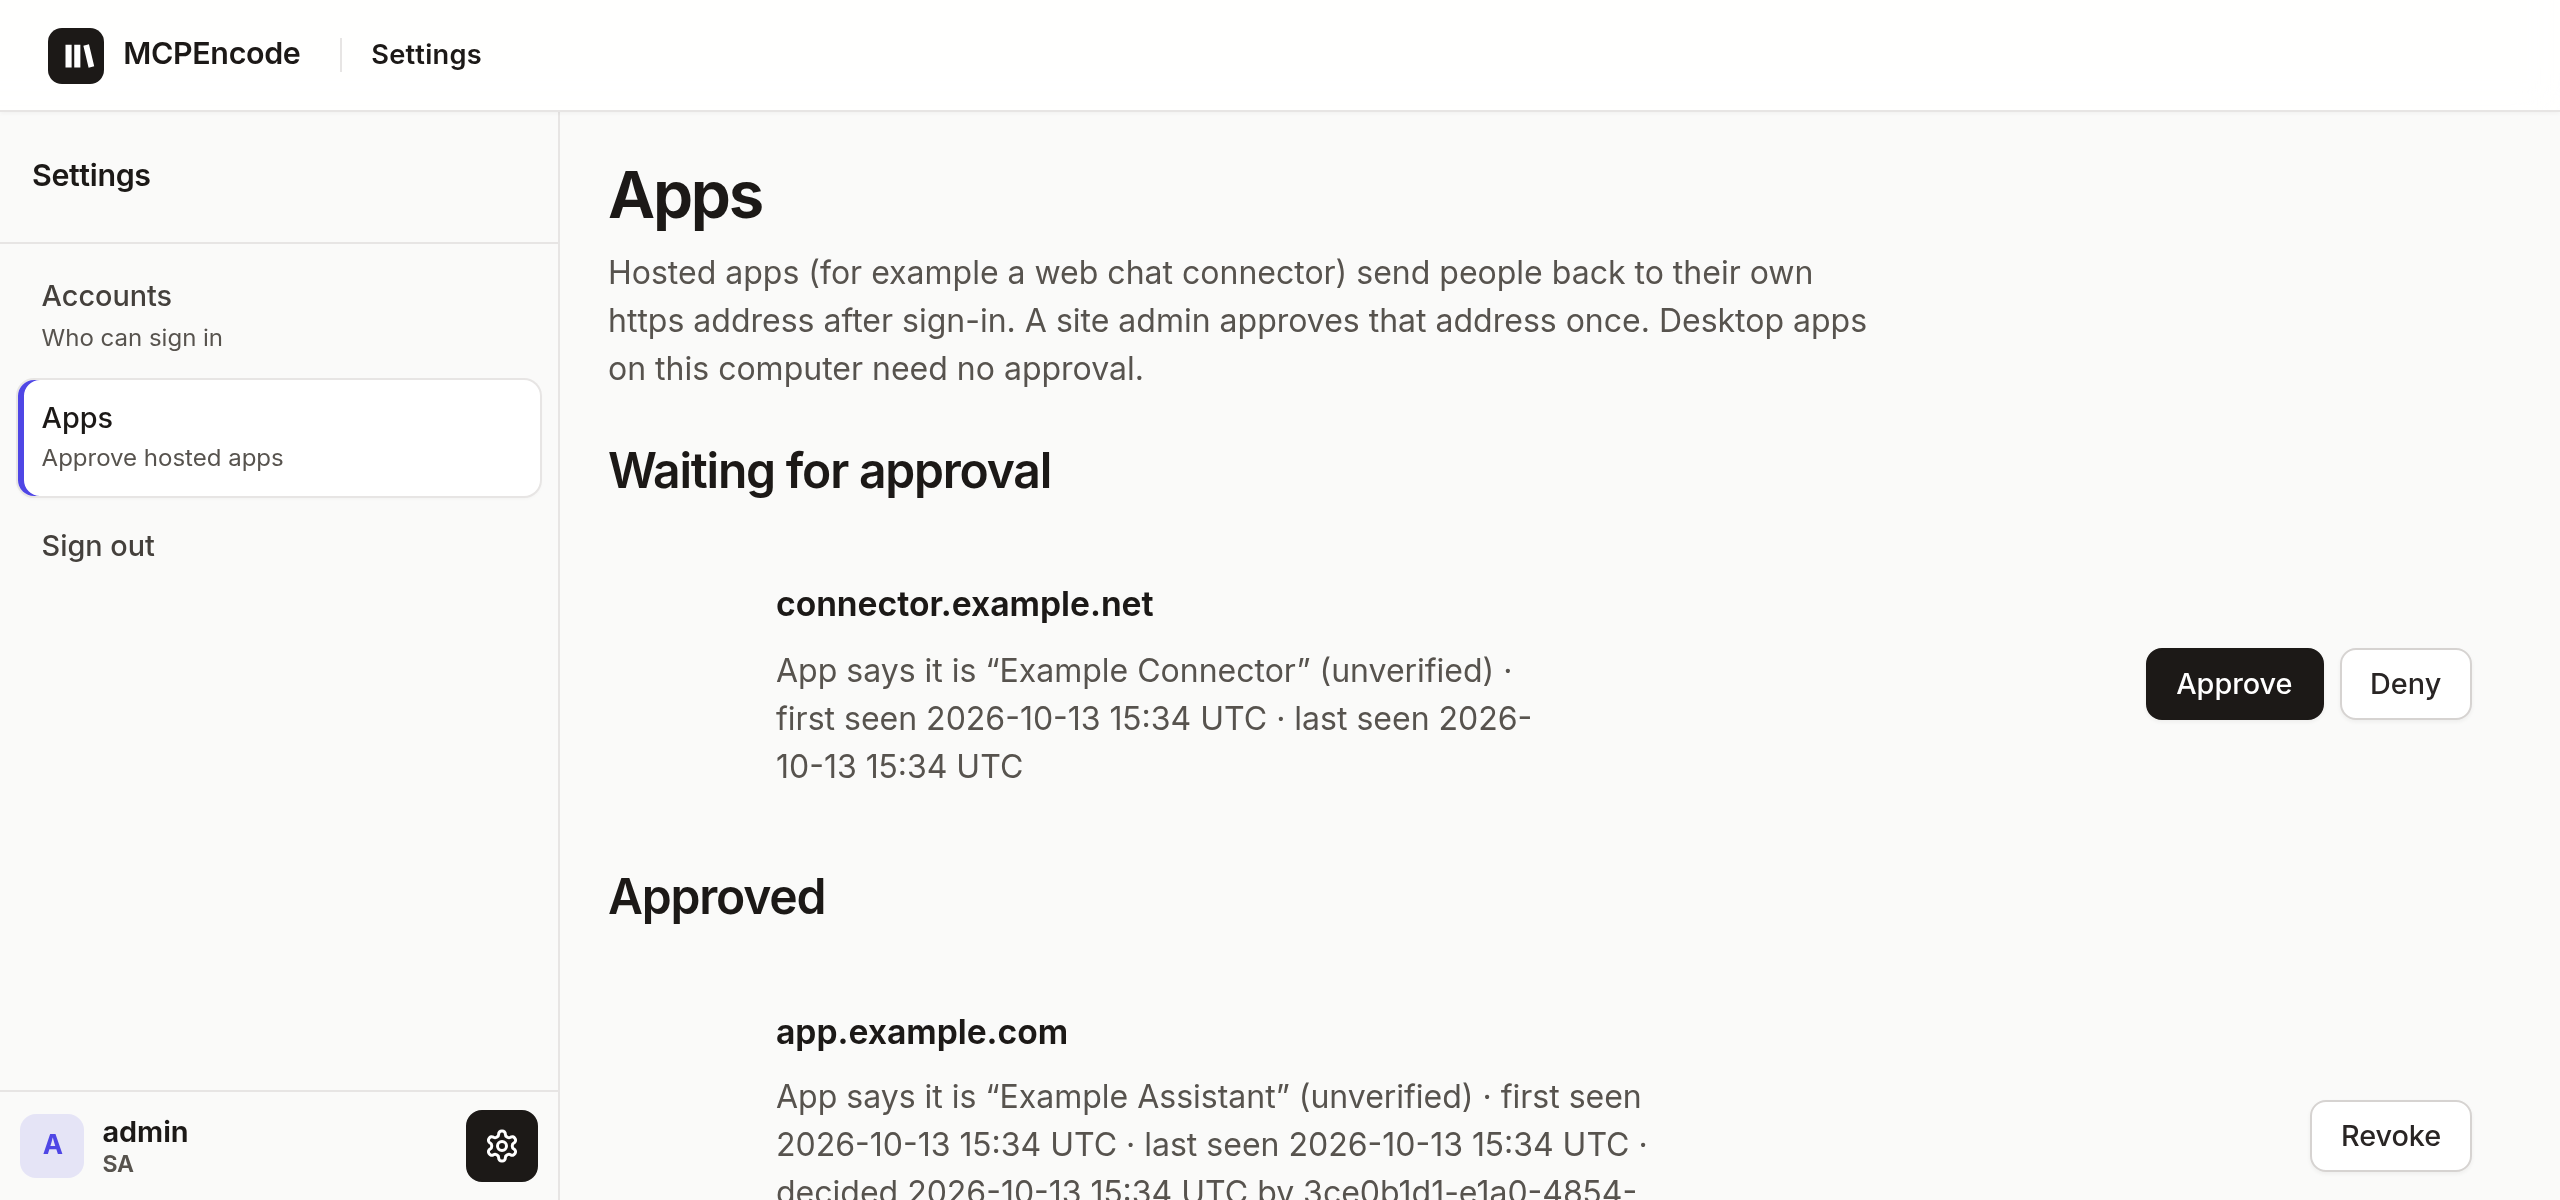
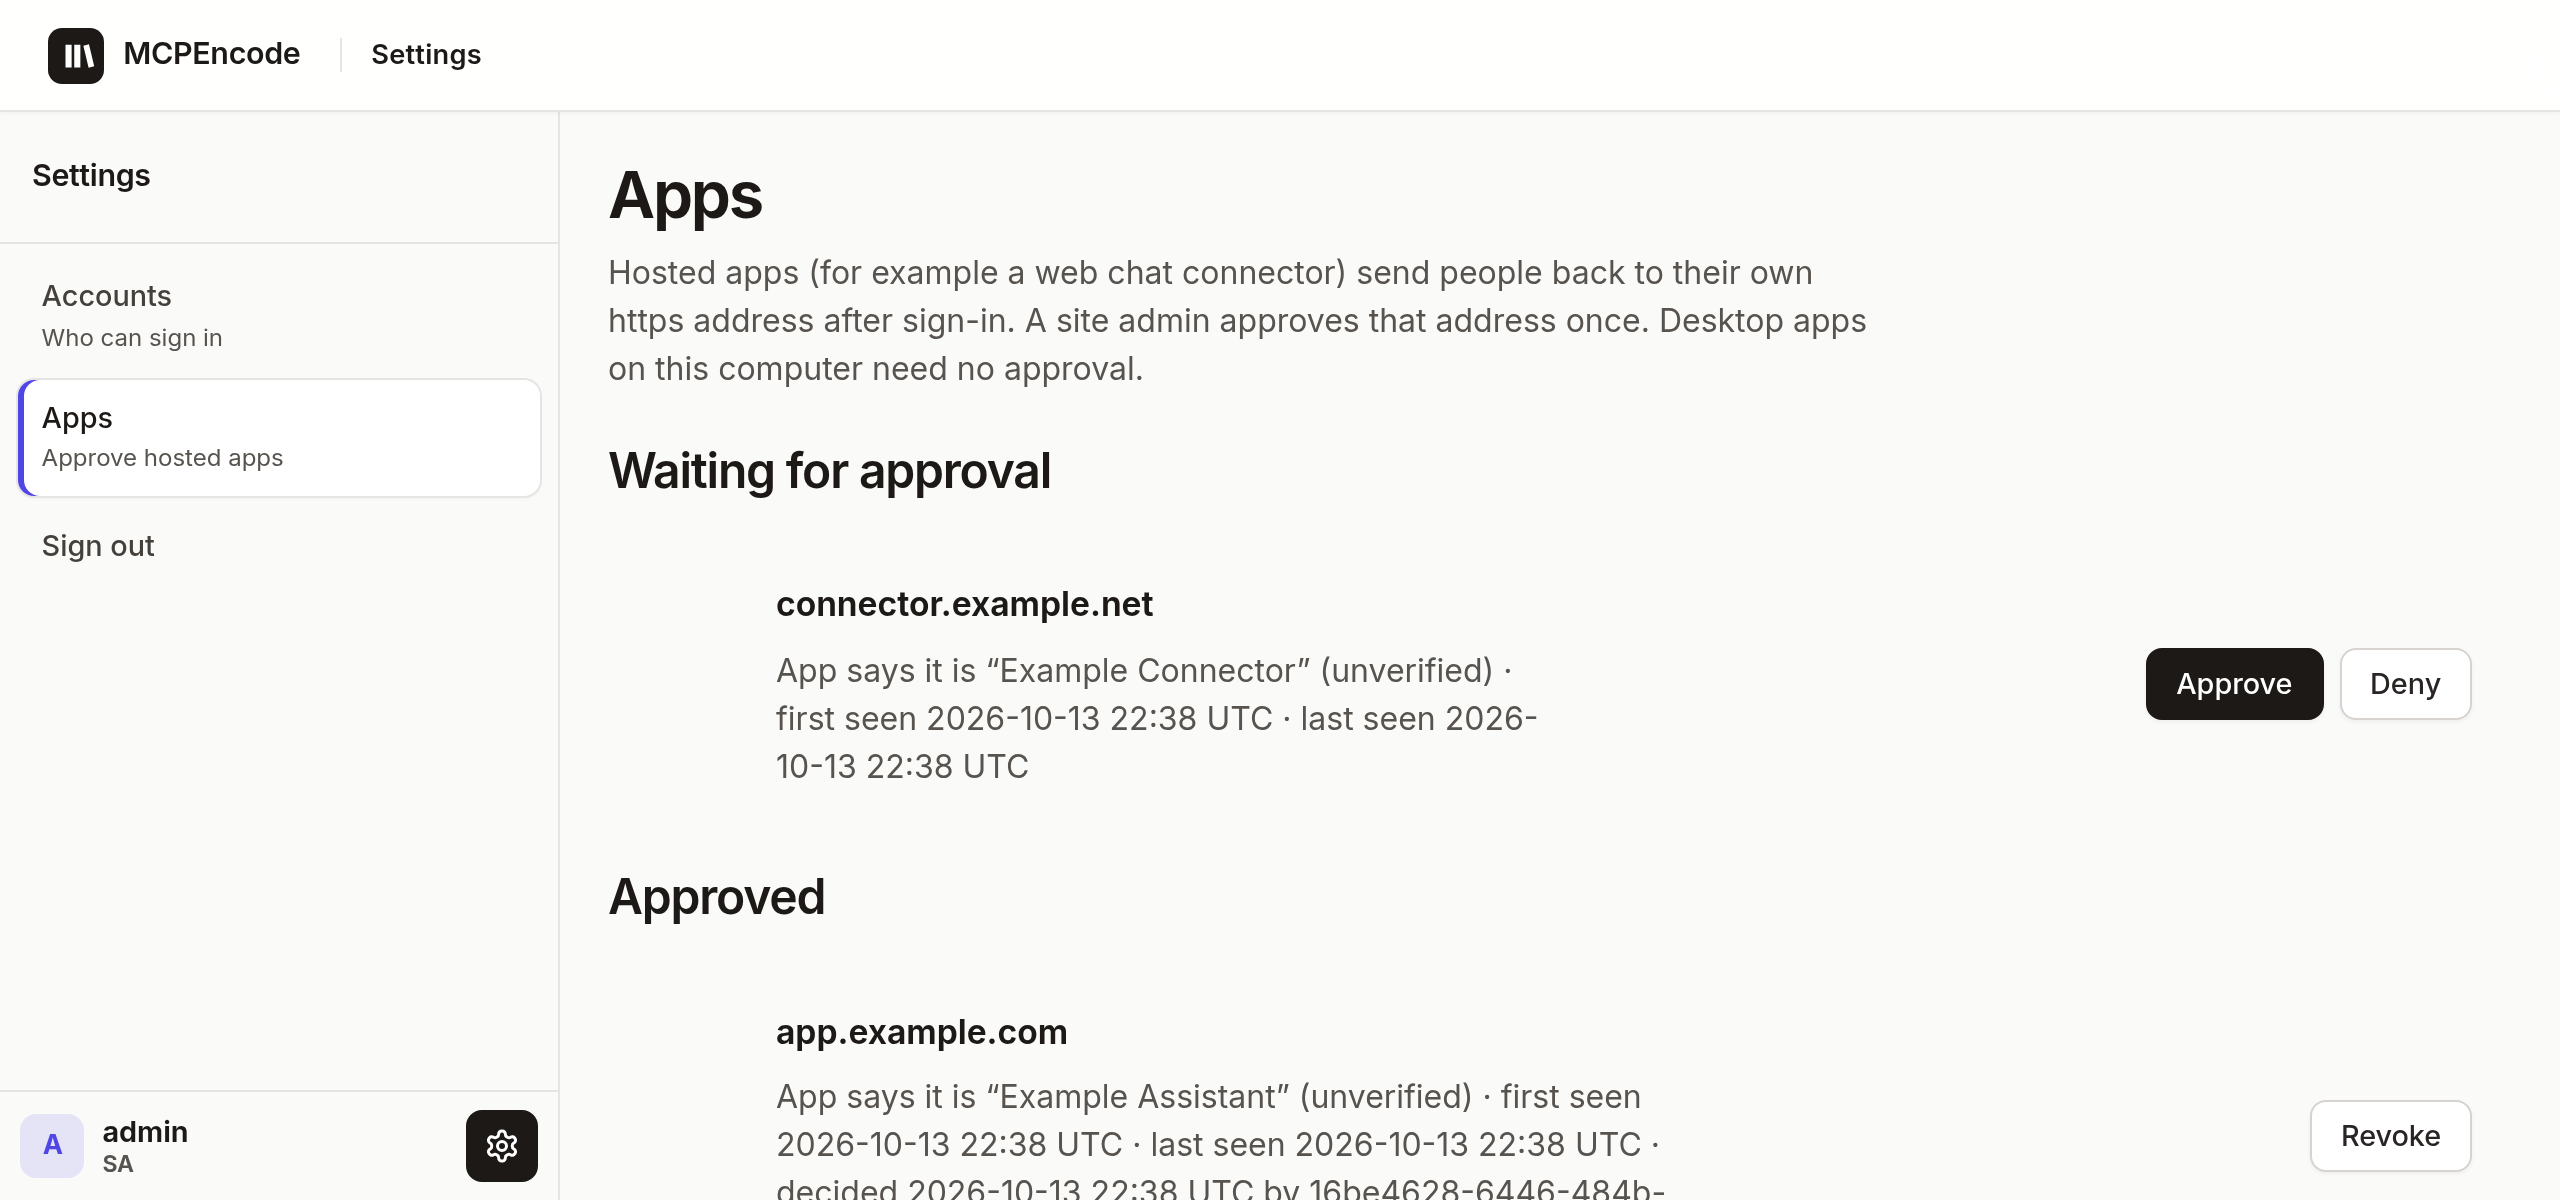
docs: refresh screenshots, add review queue / label suggestion / freshness images; IT-first README

Changed region(s): [[0.375, 0.925, 0.6562, 1.0], [0.4375, 0.5858, 0.5938, 0.6167], [0.3438, 0.6167, 0.4062, 0.6475]]

diff --git a/scripts/seed-demo.ts b/scripts/seed-demo.ts
@@ -48,6 +48,8 @@ type Lib = {
   readerKey?: boolean;
   /** Review every N days (freshness). Unset = type default. */
   reviewDays?: number;
+  /** Review-by dates relative to today, so the Review queue has realistic entries. */
+  reviewIn?: Record<string, number>;
 };
 
 const jar = new Map<string, string>();
@@ -199,6 +201,8 @@ Actively exploited vulnerabilities are patched within 72 hours, outside the norm
     name: "Help Desk Runbooks",
     mode: "reviewed",
     reviewDays: 90,
+    // Account Lockout slipped past its review; Incident Response is due next week.
+    reviewIn: { "Account Lockout": -9, "Incident Response Runbook": 6 },
     items: [
       {
         name: "Incident Response Runbook",
@@ -450,6 +454,10 @@ for (const lib of LIBRARIES) {
   for (const doc of lib.items) ids[doc.name] = await addItem(libraryId, doc);
   if (lib.mode === "reviewed") {
     await post(`/libraries/${libraryId}/items/publish`, { item_id: Object.values(ids) });
+  }
+  for (const [name, days] of Object.entries(lib.reviewIn ?? {})) {
+    const date = new Date(Date.now() + days * 86_400_000).toISOString().slice(0, 10);
+    await post(`/items/${ids[name]}/review-by`, { review_by: date });
   }
   if (lib.archived) {
     const id = await addItem(libraryId, lib.archived);

diff --git a/README.md b/README.md
@@ -4,7 +4,11 @@
 
 # MCPEncode
 
-MCPEncode keeps the facts your AI agents rely on (policies, procedures, vendor lists, recovery steps) in **Libraries** of **Items** that people **Publish**. Agents connect to one Library with its **Connect link**, look Items up, and draft changes; with Review Lock (the default) nothing reaches **Readers** until a **Publisher** publishes it. One Node.js app plus PostgreSQL, self-hosted.
+MCPEncode keeps the facts your IT team's AI agents rely on (help desk runbooks, security policies, incident procedures, vendor lists) in **Libraries** of **Items** that people **Publish**. Agents connect to one Library with its **Connect link**, look Items up, and draft changes; with Review Lock (the default) nothing reaches **Readers** until a **Publisher** publishes it. One Node.js app plus PostgreSQL, self-hosted.
+
+- **Citations with version.** Every answer names the published version, date, publisher and link, so you can see where an answer came from.
+- **Freshness.** Items get a review-by date (90 days for Policy and Procedure by default). Agents relay a warning when an item is past review, and **strict mode** refuses stale items and points to the owner. A **Review queue** lists what is due, with one-click **Still accurate**.
+- **Aliases.** "We got phished" finds the Incident Response runbook. Agents can suggest labels and aliases with `suggest_labels`; a person approves them like any other edit.
 
 **Status:** Early (0.1). Issues welcome; please open one before a large pull request.
 
@@ -41,13 +45,14 @@ The client opens a browser: sign in, then **Allow** on the consent page. That co
 
 ## Screenshots
 
-All data below is fictional demo content (`npm run seed-demo`).
+All data below is fictional demo content (`npm run seed-demo`). Left to right: the Libraries home; a published security Policy; a Pending edit (agents keep the published version); approving hosted apps; the **Review queue** for help desk runbooks; an agent's **label and alias suggestion** waiting for review; a runbook with its **review-by date** and **aliases**; the consent page.
 
 | | |
 | --- | --- |
 | <img src="docs/assets/landing.png" alt="Libraries list with demo Libraries for IT policies, help desk runbooks, customer support, a biology course, product docs, HR and sales" width="440" /> | <img src="docs/assets/item.png" alt="A published Policy Item with owner, version, effective and review dates" width="440" /> |
 | <img src="docs/assets/pending-changes.png" alt="An Item with a Pending edit: banner says agents still see the published version, with a diff of what changed" width="440" /> | <img src="docs/assets/apps.png" alt="Settings, Apps: one hosted app waiting for approval and one approved" width="440" /> |
-| <img src="docs/assets/consent.png" alt="Allow access page asking whether an app may use this account for one Library" width="440" /> | |
+| <img src="docs/assets/review-queue.png" alt="Review queue for Help Desk Runbooks: Account Lockout overdue, Incident Response Runbook due next week, each with Still accurate; freshness settings with review period and strict mode" width="440" /> | <img src="docs/assets/label-suggestion.png" alt="An agent's suggested labels and aliases for the Incident Response Runbook, Pending for a person to Publish or Cancel" width="440" /> |
+| <img src="docs/assets/item-freshness.png" alt="VPN Troubleshooting runbook with its review-by date, Still accurate button and aliases (remote access, office network, work from home)" width="440" /> | <img src="docs/assets/consent.png" alt="Allow access page asking whether an app may use this account for one Library" width="440" /> |
 
 ## Known limitations
 
